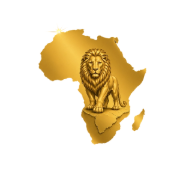
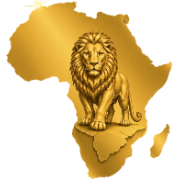
feat: stats DB dynamiques + section stats réduite + cœur centré + images mises à jour + hero/loading centrés
Stats depuis DB (API /api/stats) :
- fetch /api/stats au chargement du landing page
- Comptage réel : testimony.count(), teaching.count(), video.count(), biography.count()
- Stats dynamiques : témoignages, vidéos, biographies, délai réponse
- Synchronisées avec back office (modifications → stats mises à jour)

Section stats réduite :
- py-20 → py-8 (hauteur divisée par 2.5)
- Séparateur oblique : hauteur 60px → 30px (angle moins prononcé)

Cœur centré section serviteurs :
- self-center sur le conteneur du cœur (centrage vertical)
- mx-auto sur le cercle du cœur (centrage horizontal)
- Lignes verticales réduites : h-16 → h-12

Images mises à jour depuis GitHub :
- logo-christ-libere.png (nouvelle version)
- pam.jpeg (nouvelle version)
- pasteur-kongo.jpeg (nouvelle version)
- favicon.ico, apple-icon.png, icon-32.png, manifest-192/512.png
- og-image.png regénérée avec nouveau logo
- pam-kongo-hero.webp regénérée (resize centre)

Hero + loading page :
- img direct (plus de next/image fill) pour objectPosition center center
- Loading page : img direct + opacity 20% (plus visible)

diff --git a/src/app/page.tsx b/src/app/page.tsx
@@ -19,10 +19,10 @@ const VERSES = [
 ];
 
 const STATS = [
-  { value: 31, suffix: "", label: "témoignages authentiques" },
-  { value: 544, suffix: "", label: "vidéos publiées" },
-  { value: 7, suffix: "", label: "jalons biographiques" },
-  { value: 24, suffix: "h", label: "délai de réponse" },
+  { key: "testimonies", suffix: "", label: "témoignages authentiques" },
+  { key: "videos", suffix: "", label: "vidéos publiées" },
+  { key: "biographies", suffix: "", label: "biographies publiées" },
+  { key: "responseTime", suffix: "h", label: "délai de réponse" },
 ];
 
 const FEATURES = [
@@ -53,6 +53,16 @@ const FEATURES = [
 ];
 
 export default function Home() {
+  const [statsData, setStatsData] = useState<Record<string, number>>({
+    testimonies: 0, videos: 0, biographies: 0, responseTime: 24,
+  });
+
+  useEffect(() => {
+    fetch("/api/stats")
+      .then(r => r.json())
+      .then(data => setStatsData(data))
+      .catch(() => {});
+  }, []);
   return (
     <div className="min-h-screen">
       {/* ═════ HERO ═════ */}
@@ -63,7 +73,7 @@ export default function Home() {
             src="/pam-kongo-hero.webp"
             alt="Pam et Pasteur Kongo"
             className="w-full h-full opacity-60"
-            style={{ objectFit: "cover", objectPosition: "center 25%" }}
+            style={{ objectFit: "cover", objectPosition: "center center" }}
           />
           <div className="absolute inset-0 bg-gradient-to-b from-[#2A0E3D]/50 via-[#2A0E3D]/60 to-[#1A0826]" />
         </div>
@@ -175,14 +185,14 @@ export default function Home() {
       </section>
 
       {/* Séparateur oblique ascendant (gauche→droite) entre hero et stats */}
-      <div className="relative bg-[#1A0826]" style={{ height: "60px" }}>
-        <svg className="absolute bottom-0 w-full h-full" viewBox="0 0 1200 60" preserveAspectRatio="none">
-          <polygon points="0,60 1200,0 1200,60" fill="#FAF6EF" />
+      <div className="relative bg-[#1A0826]" style={{ height: "30px" }}>
+        <svg className="absolute bottom-0 w-full h-full" viewBox="0 0 1200 30" preserveAspectRatio="none">
+          <polygon points="0,30 1200,0 1200,30" fill="#FAF6EF" />
         </svg>
       </div>
 
       {/* ═════ STATS ═════ */}
-      <section className="py-20 bg-[#FAF6EF] relative overflow-hidden">
+      <section className="py-8 bg-[#FAF6EF] relative overflow-hidden">
         <div className="max-w-7xl mx-auto px-4">
           <div className="grid grid-cols-1 sm:grid-cols-2 lg:grid-cols-4 gap-8">
             {STATS.map((stat, i) => (
@@ -195,7 +205,7 @@ export default function Home() {
                 className="text-center"
               >
                 <div className="font-serif font-extrabold text-4xl md:text-5xl text-[#C9A227] mb-2">
-                  <AnimatedCounter target={stat.value} suffix={stat.suffix} />
+                  <AnimatedCounter target={statsData[stat.key] || 0} suffix={stat.suffix} />
                 </div>
                 <div className="text-sm text-[#8A8378] font-medium">
                   {stat.label}
@@ -249,11 +259,11 @@ export default function Home() {
               </span>
             </Link>
 
-            {/* Center: Marriage */}
-            <div className="flex flex-col items-center justify-center p-8">
-              <div className="w-px h-16 bg-[#C9A227]/30 mb-6 hidden lg:block" />
+            {/* Center: Marriage — cœur centré verticalement */}
+            <div className="flex flex-col items-center justify-center p-8 self-center">
+              <div className="w-px h-12 bg-[#C9A227]/30 mb-4 hidden lg:block" />
               <div className="text-center">
-                <div className="flex items-center justify-center w-16 h-16 rounded-full bg-[#C9A227]/10 mb-4">
+                <div className="flex items-center justify-center w-16 h-16 rounded-full bg-[#C9A227]/10 mb-4 mx-auto">
                   <Heart className="w-8 h-8 text-[#C9A227]" />
                 </div>
                 <p className="font-serif text-lg italic text-[#8A8378] text-center max-w-xs">
@@ -261,7 +271,7 @@ export default function Home() {
                   sans se confondre. »
                 </p>
               </div>
-              <div className="w-px h-16 bg-[#C9A227]/30 mt-6 hidden lg:block" />
+              <div className="w-px h-12 bg-[#C9A227]/30 mt-4 hidden lg:block" />
             </div>
 
             {/* Pasteur Kongo */}

diff --git a/src/app/api/stats/route.ts b/src/app/api/stats/route.ts
@@ -1,0 +1,33 @@
+/** GET /api/stats — Statistiques globales depuis la DB */
+import { NextResponse } from "next/server";
+import { db } from "@/lib/db";
+
+export const runtime = "nodejs";
+export const dynamic = "force-dynamic";
+
+export async function GET() {
+  try {
+    const [testimonies, teachings, videos, biographies] = await Promise.all([
+      db.testimony.count(),
+      db.teaching.count(),
+      db.video.count(),
+      db.biography.count(),
+    ]);
+
+    return NextResponse.json({
+      testimonies,
+      teachings,
+      videos,
+      biographies,
+    });
+  } catch (error) {
+    console.error("[api/stats]", error);
+    // Fallback avec données statiques
+    return NextResponse.json({
+      testimonies: 31,
+      teachings: 8,
+      videos: 544,
+      biographies: 2,
+    });
+  }
+}

diff --git a/src/components/site/page-loader.tsx b/src/components/site/page-loader.tsx
@@ -27,13 +27,11 @@ export function PageLoader() {
         >
           {/* Image de fond : les deux serviteurs */}
           <div className="absolute inset-0 z-0">
-            <Image
+            <img
               src="/pam-kongo-hero.webp"
               alt=""
-              fill
-              className="object-cover opacity-15"
-              sizes="100vw"
-              priority
+              className="w-full h-full opacity-20"
+              style={{ objectFit: "cover", objectPosition: "center center" }}
             />
             <div className="absolute inset-0 bg-[#1A0826]/70" />
           </div>
